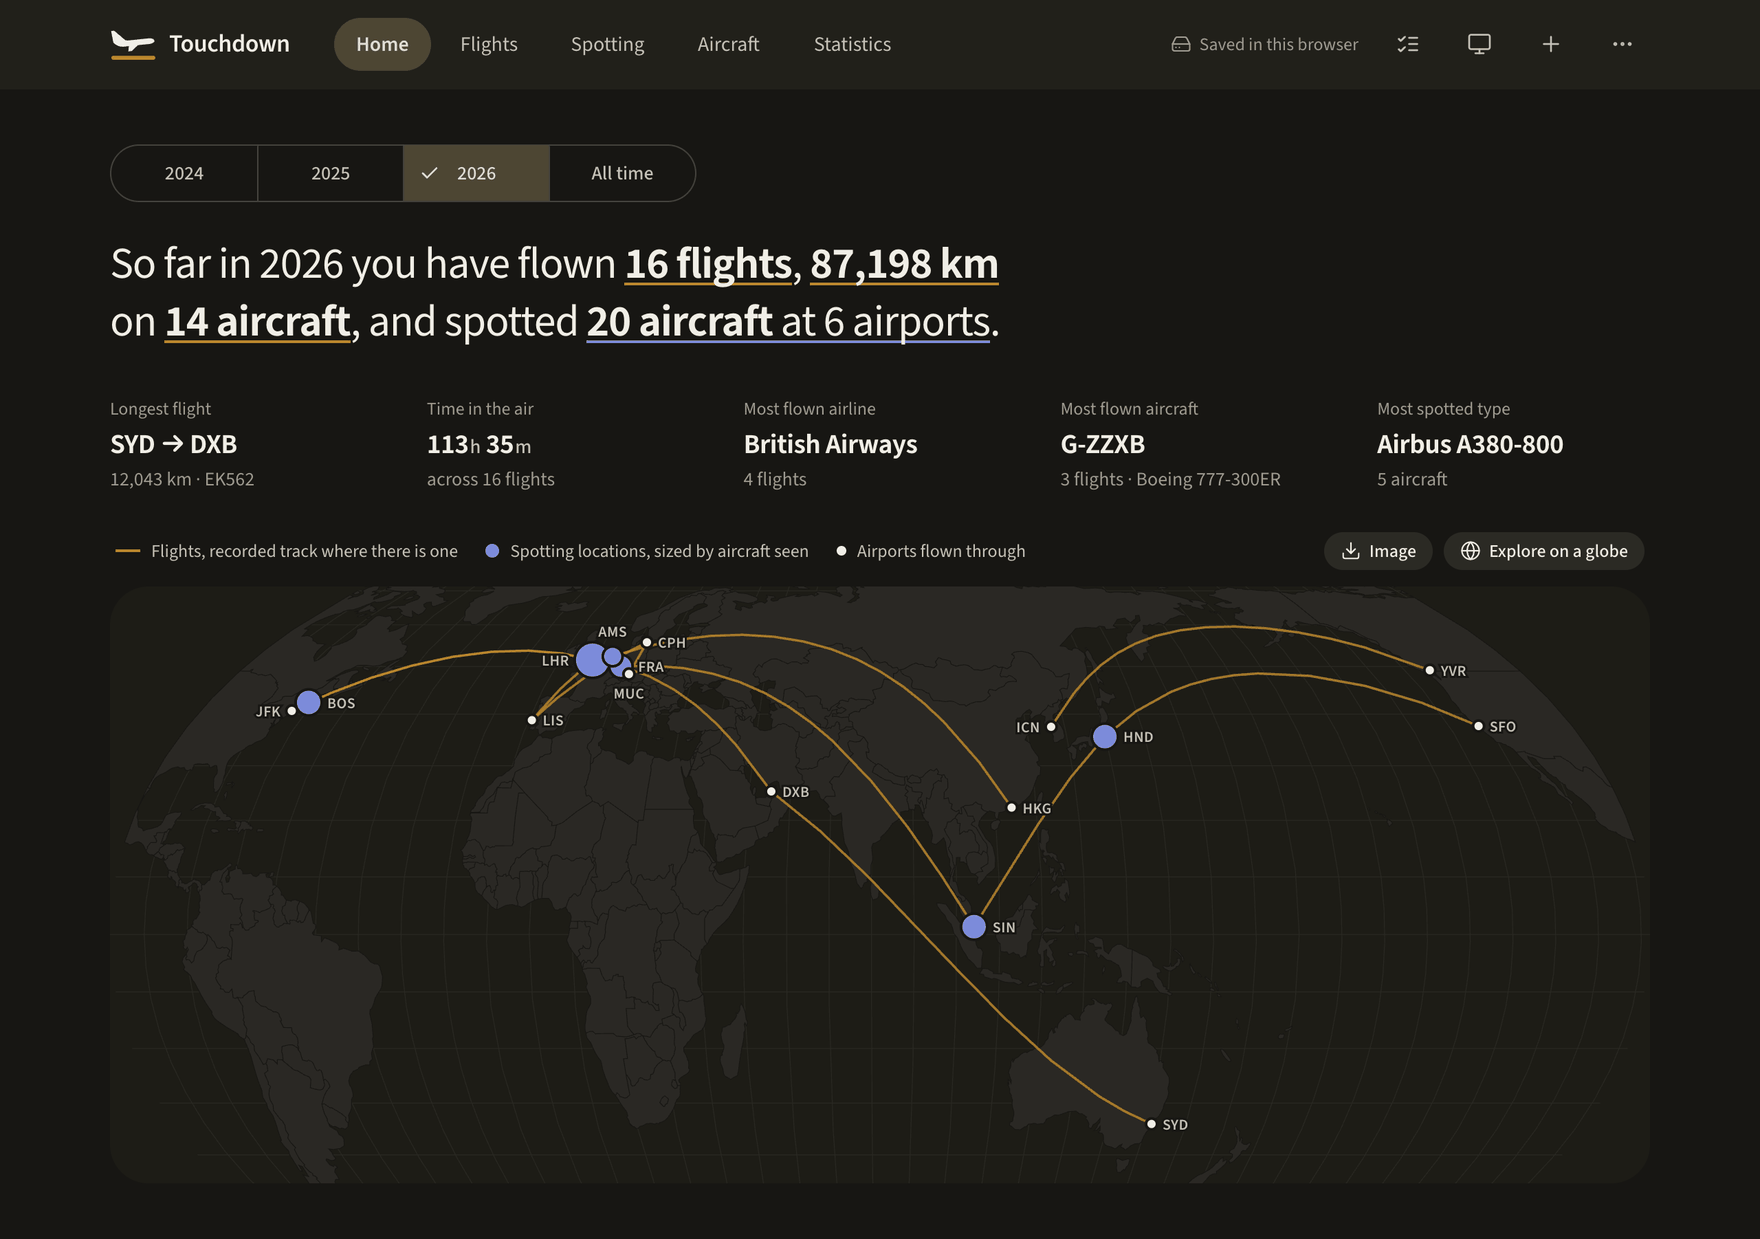
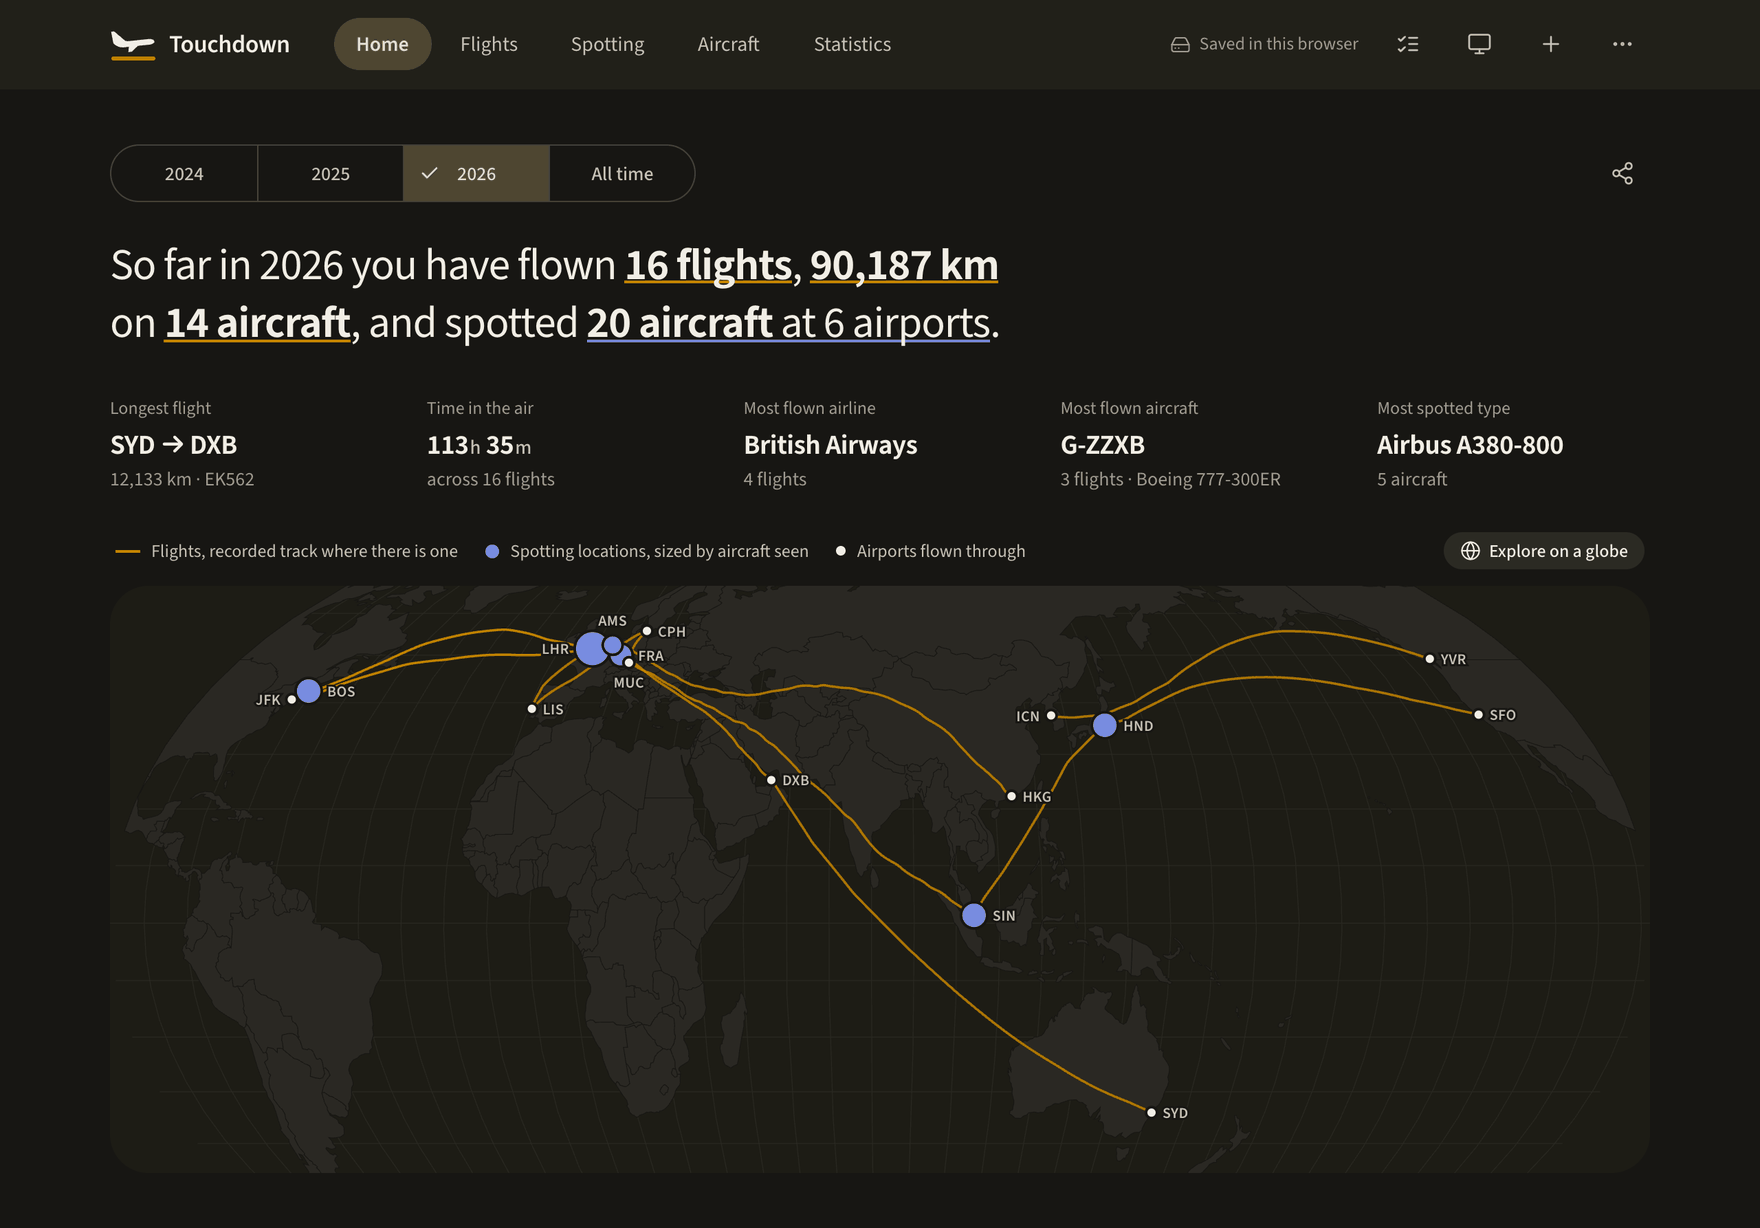
The README's preview of Home is today's page, its made-up flights drawn along made-up recorded tracks

diff --git a/README.md b/README.md
@@ -15,7 +15,7 @@
 <p align="center">
   <picture>
     <source media="(prefers-color-scheme: dark)" srcset="docs/images/preview-dark.png">
-    <img src="docs/images/preview-light.png" alt="Touchdown's Home page: the year in one sentence, its figures, and a map of the year's flights and spotting places" width="880">
+    <img src="docs/images/preview-light.png" alt="Touchdown's Home page: the year in one sentence, its figures, and a map of the year's flights along their recorded tracks and its spotting places" width="880">
   </picture>
   <br>
   <sub>Home, with a made-up log.</sub>
